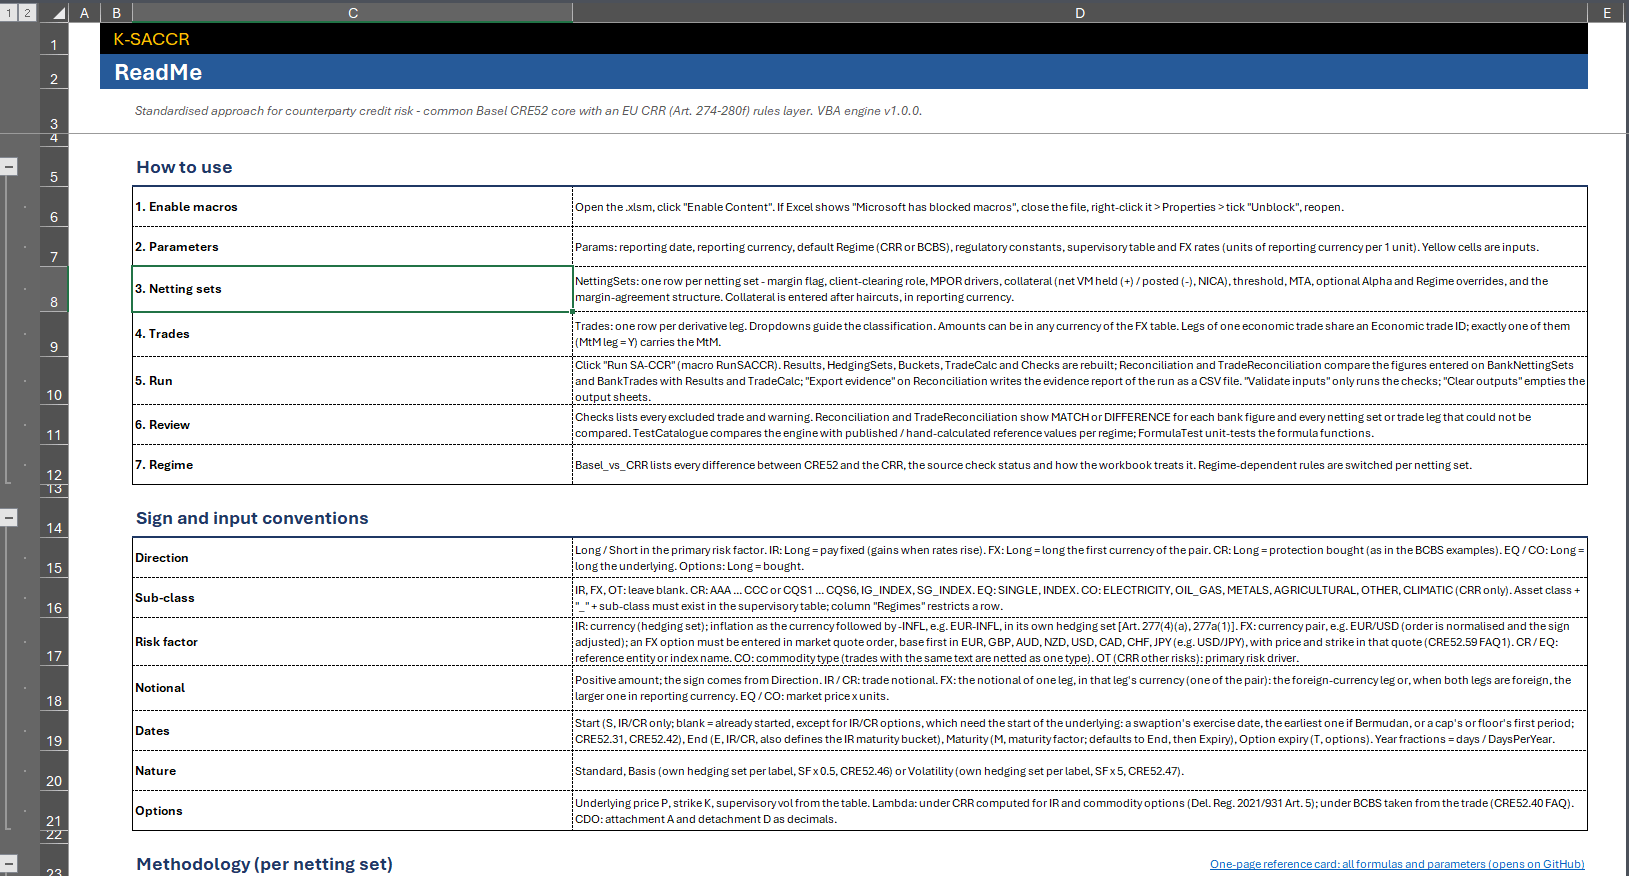
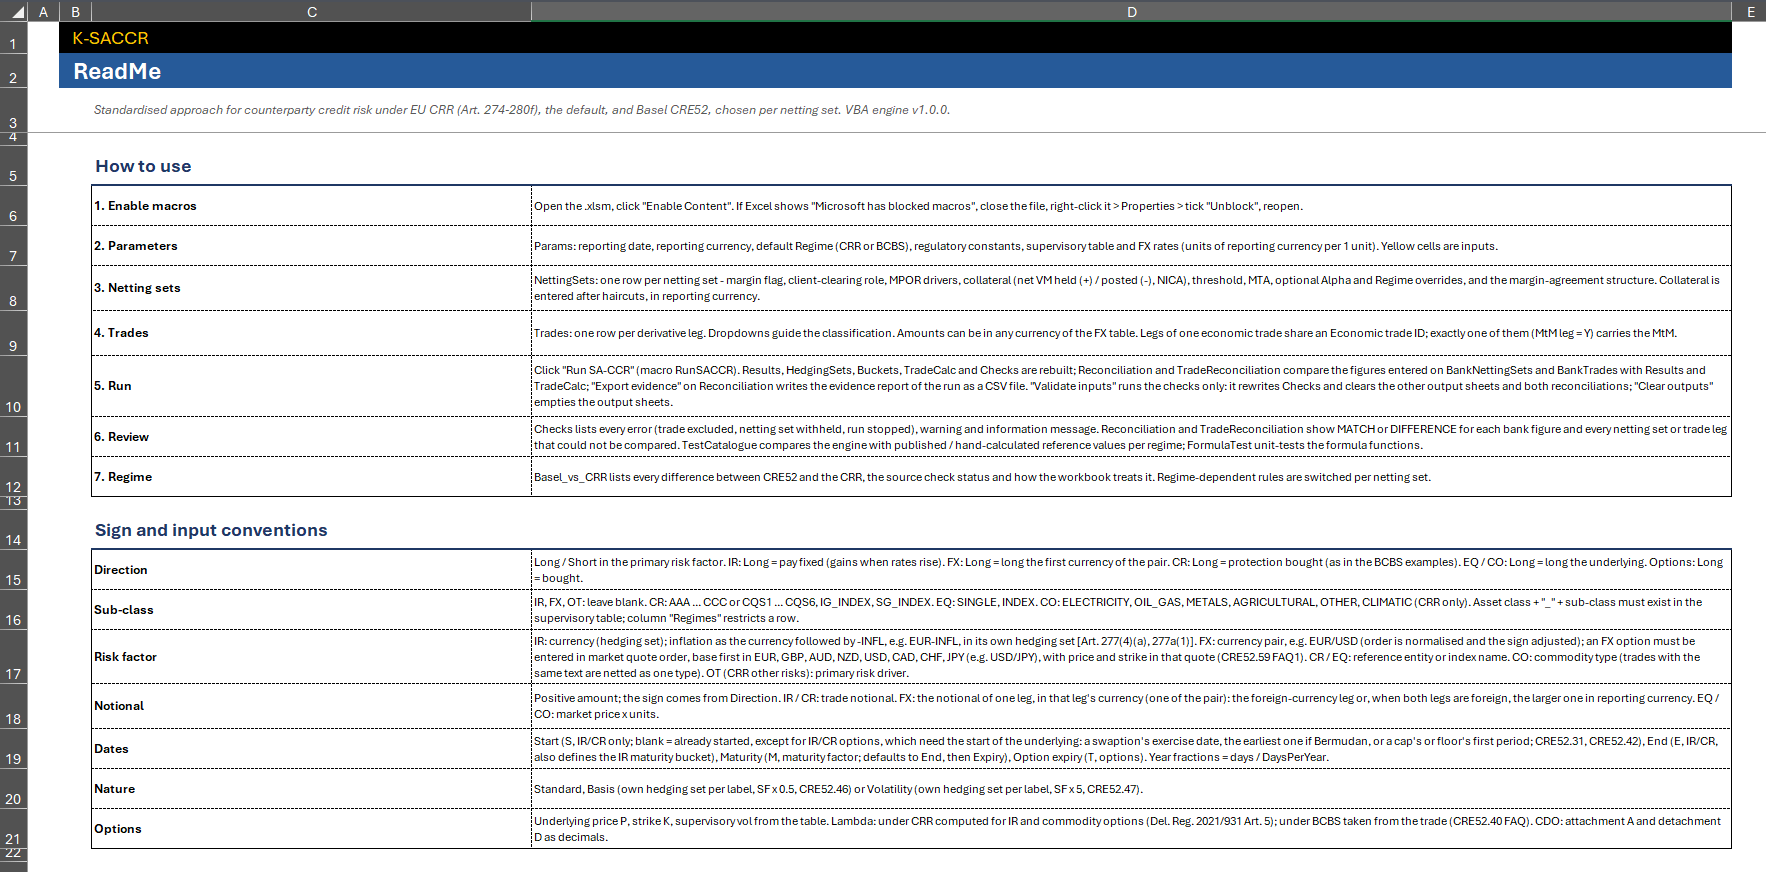
README sheet: wider column D, three-line rows, full-width reference card, new screenshot (#289)
Follow-up to #274 and #283 on the workbook's README sheet: column D at
150 (owner's request); rows 10 and 74 at the three-line height of
45.95 pt, row 11 back to 30 pt; the reference card picture at
1,640 x 1,316 px, the measured width of columns C:D, still anchored at
C77 with the D23 link to C114. docs/assets/SACCR_README_sheet.png is the
owner's retake from that build (Codex finding on #286), and
docs/assets/README.md gives the picture width.

Validated: python tools/check.py passes. Excel, verified by the owner on
2026-10-16: column width, row heights, full-width card and its link.

diff --git a/docs/assets/README.md b/docs/assets/README.md
@@ -79,9 +79,10 @@ The workbook carries the card as a picture on its README sheet, under the
 "Reference card" heading, so a user never has to leave Excel (#281).
 README!D23 links to C114, a cell behind the lower part of the picture:
 Excel scrolls only until the target cell is in view, so a link to the
-heading would leave the picture below the window. The picture is a PNG of this SVG: when the SVG changes,
-render it again and replace the picture in the template
-(`xl/media/image1.png`, shown 1260 px wide):
+heading would leave the picture below the window. The picture is a PNG of
+this SVG: when the SVG changes, render it again and replace the picture in
+the template (`xl/media/image1.png`, shown 1640 px wide, the width of
+columns C:D):
 
 1. Open the SVG in an HTML page that shows it at 1800 x 1444 px and take a
    screenshot with headless Chromium at a device scale factor of 1, in a
